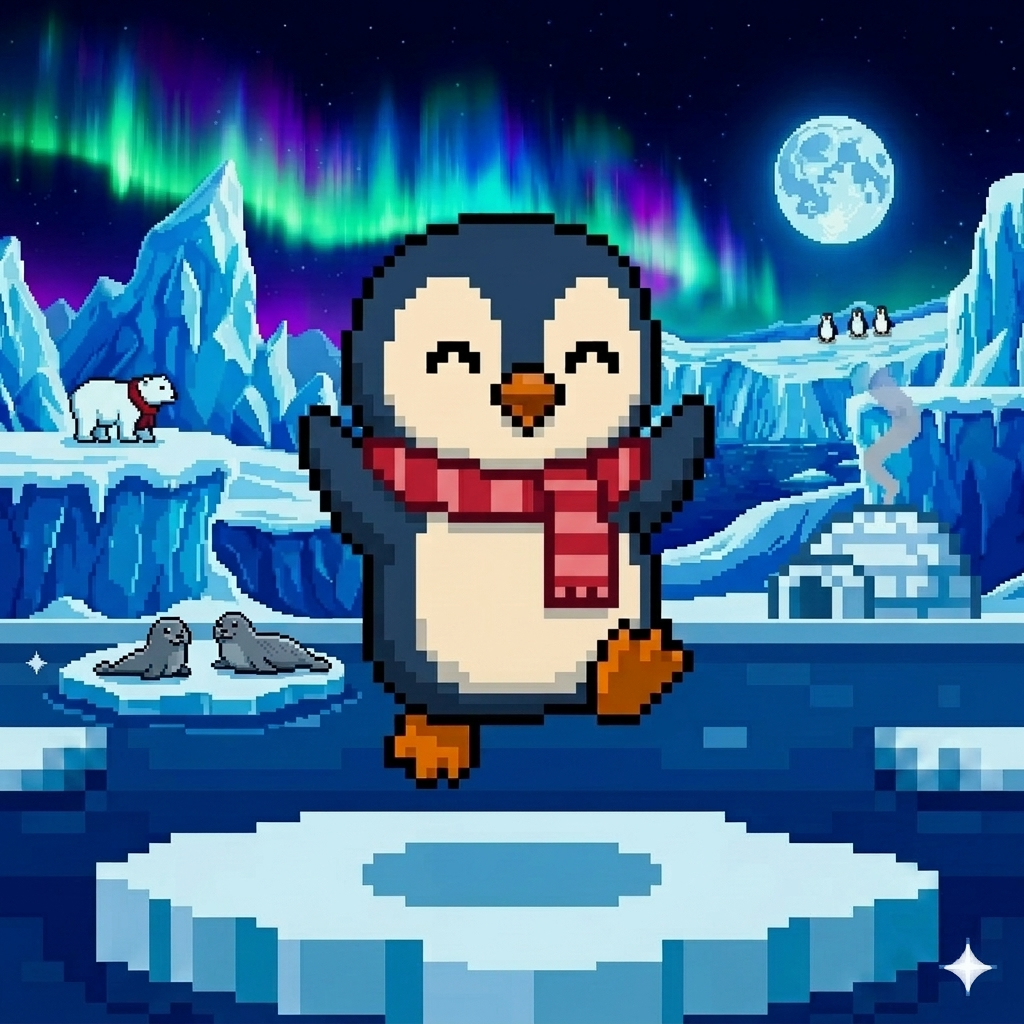
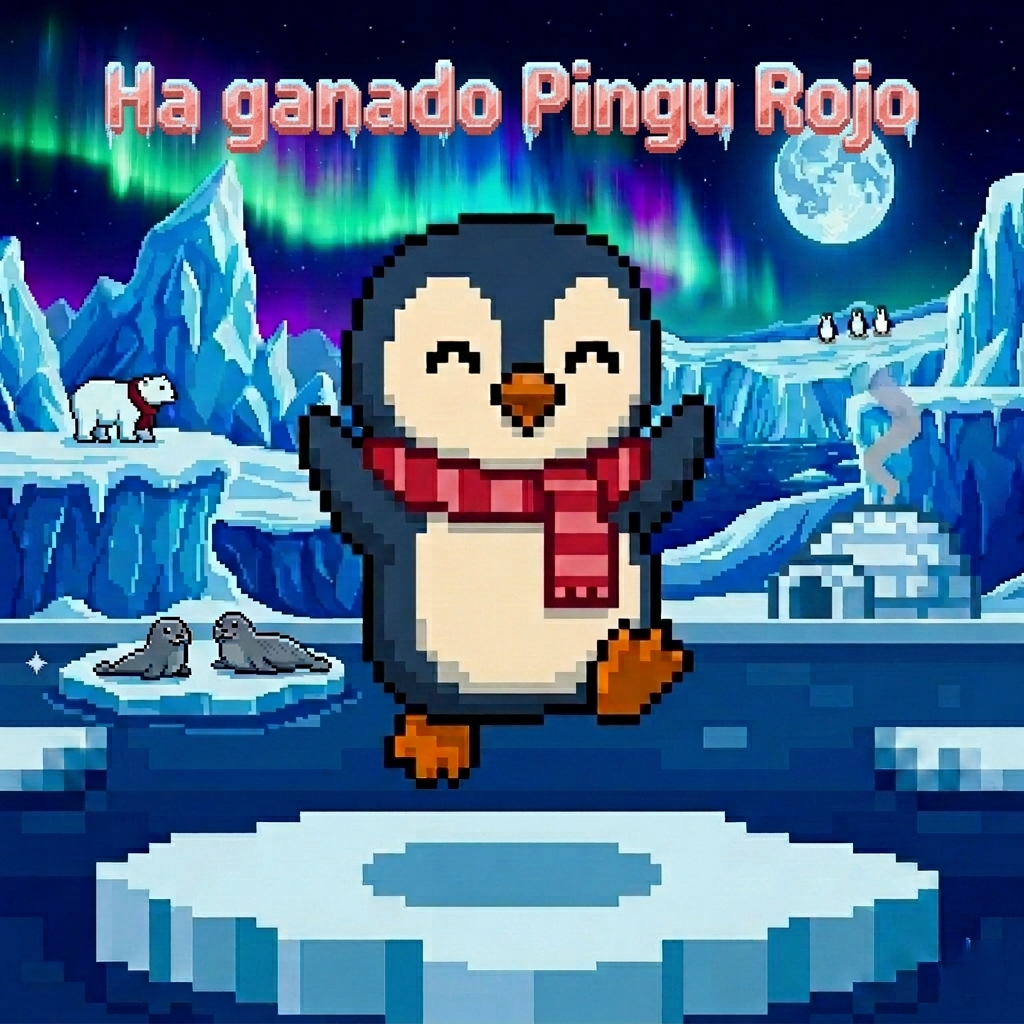
Corrección Vista
Hemos añadido mas vista y pantalla final de victoria.

diff --git a/src/PantallaVictoria.css b/src/PantallaVictoria.css
@@ -1,0 +1,69 @@
+/* ============================================================
+   PantallaVictoria.css  –  Pantalla de victoria del Joc del Pinguí
+   ============================================================ */
+
+.victoria-root {
+    -fx-background-color: #0a0a1a;
+}
+
+/* Imagen central: ocupa todo el espacio disponible */
+.victoria-img {
+    -fx-effect: dropshadow(gaussian, rgba(255, 215, 0, 0.6), 40, 0.4, 0, 0);
+}
+
+/* Barra inferior con degradado oscuro */
+.victoria-bottom {
+    -fx-background-color: linear-gradient(to top, rgba(0,0,0,0.95) 0%, rgba(0,0,0,0.6) 100%);
+    -fx-padding: 20 40 30 40;
+}
+
+/* Título del ganador */
+.victoria-title {
+    -fx-text-fill: #FFD700;
+    -fx-font-size: 36px;
+    -fx-font-weight: bold;
+    -fx-effect: dropshadow(gaussian, rgba(255,215,0,0.8), 20, 0.5, 0, 0);
+    -fx-font-family: "Segoe UI", "Arial", sans-serif;
+}
+
+/* Botones base */
+.victoria-btn {
+    -fx-font-size: 15px;
+    -fx-font-weight: bold;
+    -fx-padding: 12 20 12 20;
+    -fx-background-radius: 10;
+    -fx-border-radius: 10;
+    -fx-cursor: hand;
+    -fx-text-fill: white;
+    -fx-background-color: #2a2a4a;
+    -fx-border-color: rgba(255,255,255,0.2);
+    -fx-border-width: 1;
+    -fx-effect: dropshadow(gaussian, rgba(0,0,0,0.5), 8, 0, 0, 3);
+    -fx-transition: all 0.2s;
+}
+
+.victoria-btn:hover {
+    -fx-background-color: #3a3a6a;
+    -fx-scale-x: 1.04;
+    -fx-scale-y: 1.04;
+}
+
+/* Botón primario: nueva partida */
+.primary-btn {
+    -fx-background-color: linear-gradient(to bottom, #1e8fdc, #0d5fa8);
+    -fx-border-color: #5ab4ff;
+}
+
+.primary-btn:hover {
+    -fx-background-color: linear-gradient(to bottom, #2fa3f0, #1275c4);
+}
+
+/* Botón peligroso: salir */
+.danger-btn {
+    -fx-background-color: linear-gradient(to bottom, #c0392b, #922b21);
+    -fx-border-color: #e74c3c;
+}
+
+.danger-btn:hover {
+    -fx-background-color: linear-gradient(to bottom, #e74c3c, #b03a2e);
+}

diff --git a/src/JOC_DEL_PINGU/PantallaVictoria.java b/src/JOC_DEL_PINGU/PantallaVictoria.java
@@ -1,0 +1,130 @@
+package JOC_DEL_PINGU;
+
+import javafx.event.ActionEvent;
+import javafx.fxml.FXML;
+import javafx.fxml.FXMLLoader;
+import javafx.scene.Node;
+import javafx.scene.Parent;
+import javafx.scene.Scene;
+import javafx.scene.control.Button;
+import javafx.scene.control.Label;
+import javafx.scene.image.Image;
+import javafx.scene.image.ImageView;
+import javafx.stage.Stage;
+
+public class PantallaVictoria {
+
+    @FXML private ImageView imgVictoria;
+    @FXML private Label     lblGanador;
+    @FXML private Button    btnNuevaPartida;
+    @FXML private Button    btnGuardar;
+    @FXML private Button    btnMenu;
+    @FXML private Button    btnSalir;
+
+    // Datos pasados desde PantallaPartida
+    private String nombreGanador;
+    private String colorGanador;
+
+    // ==========================================
+    // INICIALIZACIÓN (llamada por PantallaPartida antes de mostrar)
+    // ==========================================
+
+    /**
+     * Recibe el nombre y color del jugador ganador.
+     * Debe llamarse DESPUÉS de que el FXMLLoader haya procesado el FXML.
+     */
+    public void setGanador(String nombre, String color) {
+        this.nombreGanador = nombre;
+        this.colorGanador  = color;
+        aplicarDatosGanador();
+    }
+
+    private void aplicarDatosGanador() {
+        // Etiqueta con el nombre
+        if (lblGanador != null) {
+            lblGanador.setText("🏆  ¡" + nombreGanador + " GANA LA PARTIDA!");
+        }
+
+        // Imagen de victoria según el color
+        String rutaImg = obtenerRutaVictoria(colorGanador);
+        if (imgVictoria != null && rutaImg != null) {
+            try {
+                var resource = getClass().getResourceAsStream(rutaImg);
+                if (resource != null) {
+                    imgVictoria.setImage(new Image(resource));
+                } else {
+                    System.err.println("No se encontró la imagen de victoria: " + rutaImg);
+                }
+            } catch (Exception e) {
+                System.err.println("Error cargando imagen de victoria: " + e.getMessage());
+            }
+        }
+    }
+
+    /** Mapea color del jugador → ruta del recurso de imagen de victoria. */
+    private String obtenerRutaVictoria(String color) {
+        if (color == null) return "/resources/Victoria Azul.png";
+        switch (color.toLowerCase()) {
+            case "rojo":     return "/resources/Rojo Victoria.png";
+            case "verde":    return "/resources/Verde Victoria.png";
+            case "amarillo": return "/resources/Victoria Amarillo.png";
+            case "azul":
+            default:         return "/resources/Victoria Azul.png";
+        }
+    }
+
+    // ==========================================
+    // BOTONES
+    // ==========================================
+
+    @FXML
+    private void handleNuevaPartida(ActionEvent event) {
+        try {
+            FXMLLoader loader = new FXMLLoader(getClass().getResource("/PantallaConfig.fxml"));
+            Parent root = loader.load();
+            Scene scene = new Scene(root);
+            try { scene.getStylesheets().add(getClass().getResource("/style.css").toExternalForm()); } catch (Exception ignored) {}
+
+            Stage stage = (Stage) ((Node) event.getSource()).getScene().getWindow();
+            stage.setScene(scene);
+            stage.setTitle("El Juego del Pingüino - Nueva Partida");
+            stage.show();
+            javafx.application.Platform.runLater(() -> stage.setMaximized(true));
+        } catch (Exception e) {
+            e.printStackTrace();
+        }
+    }
+
+    @FXML
+    private void handleGuardar(ActionEvent event) {
+        // Placeholder: en un futuro conectar con GestorBBDD
+        System.out.println("Guardar partida finalizada... (no implementado)");
+        if (lblGanador != null) {
+            lblGanador.setText(lblGanador.getText() + "  ✔ Guardado");
+        }
+    }
+
+    @FXML
+    private void handleMenu(ActionEvent event) {
+        try {
+            FXMLLoader loader = new FXMLLoader(getClass().getResource("/PantallaPrincipal.fxml"));
+            Parent root = loader.load();
+            Scene scene = new Scene(root);
+            try { scene.getStylesheets().add(getClass().getResource("/style.css").toExternalForm()); } catch (Exception ignored) {}
+
+            Stage stage = (Stage) ((Node) event.getSource()).getScene().getWindow();
+            stage.setScene(scene);
+            stage.setTitle("El Juego del Pingüino - Menú Principal");
+            stage.show();
+            javafx.application.Platform.runLater(() -> stage.setMaximized(true));
+        } catch (Exception e) {
+            e.printStackTrace();
+        }
+    }
+
+    @FXML
+    private void handleSalir(ActionEvent event) {
+        System.out.println("Saliendo del juego desde pantalla de victoria. ¡Hasta luego!");
+        javafx.application.Platform.exit();
+    }
+}

diff --git a/src/JOC_DEL_PINGU/PantallaPartida.java b/src/JOC_DEL_PINGU/PantallaPartida.java
@@ -398,6 +398,8 @@ public class PantallaPartida {
             j.moverPosicion(49);
             partida.setFinalizada(true);
             gestorUI.registrar("¡" + j.getNombre() + " HA LLEGADO A LA META Y GANA LA PARTIDA!");
+            // Navegar a la pantalla de victoria tras un breve retardo para que el log se vea
+            javafx.application.Platform.runLater(() -> irAPantallaVictoria(j));
             return;
         }
         
@@ -407,6 +409,37 @@ public class PantallaPartida {
         
         // Comprobar colisiones
         verificarColisionesLocal(j);
+    }
+
+    /** Carga la pantalla de victoria y le pasa el nombre y color del ganador. */
+    private void irAPantallaVictoria(Jugador ganador) {
+        try {
+            FXMLLoader loader = new FXMLLoader(getClass().getResource("/PantallaVictoria.fxml"));
+            Parent root = loader.load();
+
+            // Pasar datos del ganador al controlador de victoria
+            PantallaVictoria controlador = loader.getController();
+            controlador.setGanador(ganador.getNombre(), ganador.getColor());
+
+            Scene scene = new Scene(root);
+
+            // Obtener la ventana actual
+            Stage stage = null;
+            if (tablero != null && tablero.getScene() != null && tablero.getScene().getWindow() != null) {
+                stage = (Stage) tablero.getScene().getWindow();
+            }
+
+            if (stage != null) {
+                stage.setScene(scene);
+                stage.setTitle("El Juego del Pingüino - ¡Victoria!");
+                stage.show();
+                final Stage finalStage = stage;
+                javafx.application.Platform.runLater(() -> finalStage.setMaximized(true));
+            }
+        } catch (Exception e) {
+            System.err.println("Error al cargar PantallaVictoria: " + e.getMessage());
+            e.printStackTrace();
+        }
     }
 
     private void verificarColisionesLocal(Jugador actual) {
